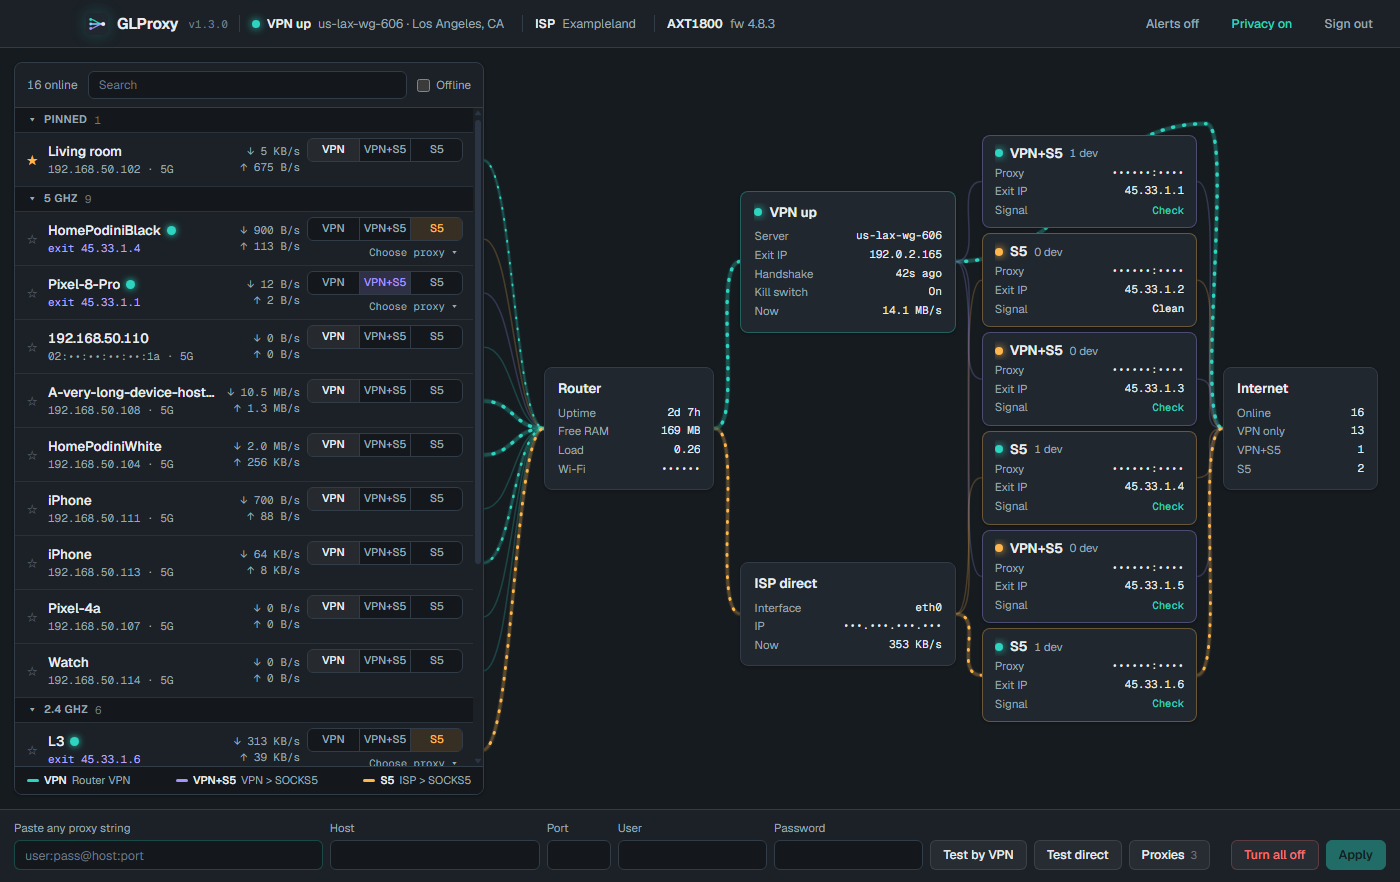
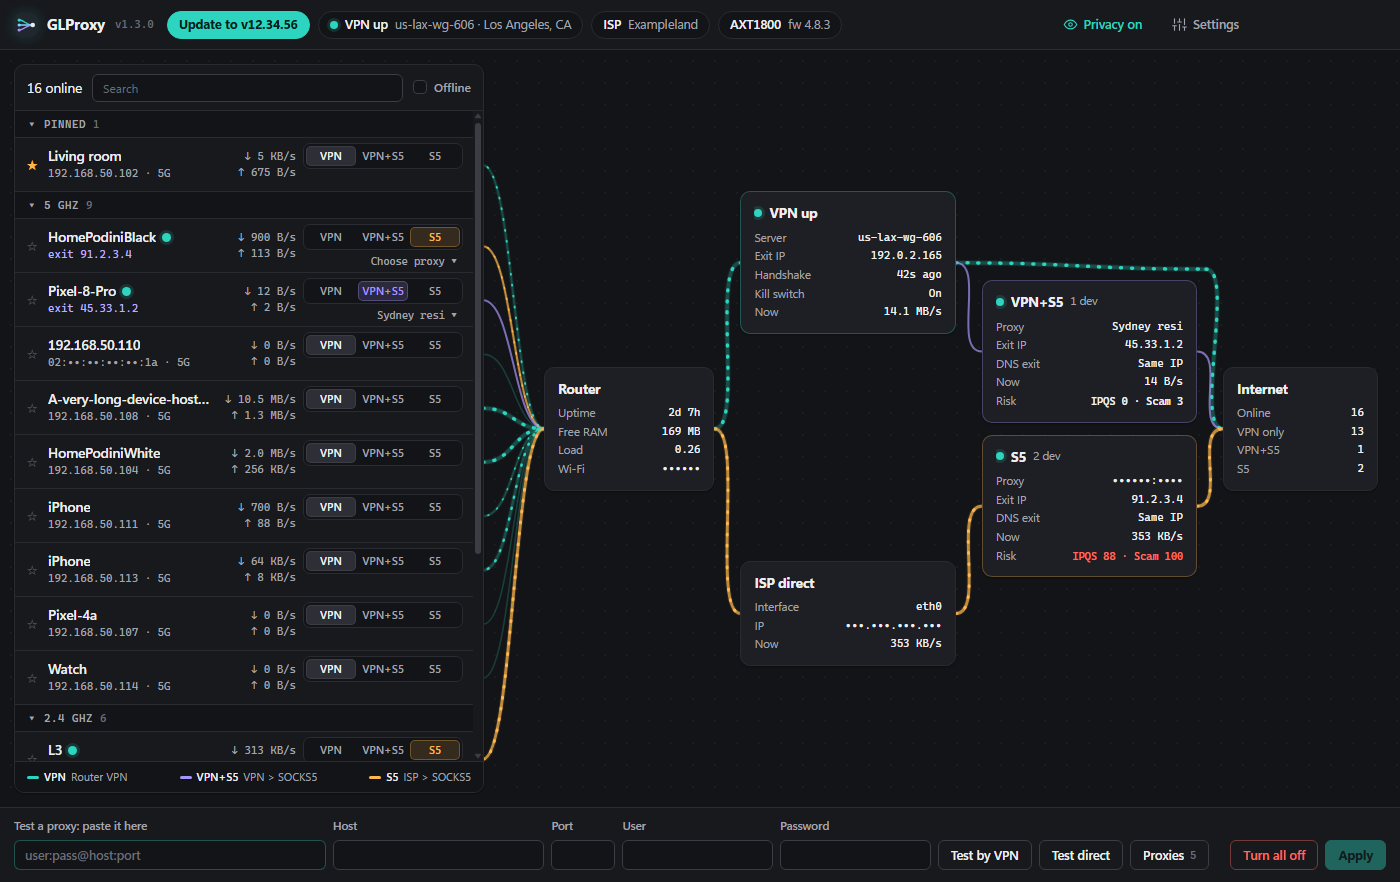
docs: 1.5.2 look, speed test, fraud score columns

diff --git a/README.md b/README.md
@@ -27,6 +27,9 @@ The apps have no paid code signature, so the system warns you the first time.
 - Keep all your proxies in one list. Assign each one to a device from there. Pin the ones you use most.
 - Test a new proxy in the bottom bar. A proxy that works is saved to the list.
 - See each proxy's exit IP, city, latency, and speed through the VPN and through your ISP, with past results.
+- See each exit IP's fraud scores from IPQS, Scamalytics and AbuseIPDB, each in its own column.
+
+![Speed test, with sample data](screenshot-speed.png)
 - Check that a device really leaves through the exit you chose.
 - Hide your own IP, Wi-Fi name, proxy logins, and MAC addresses with Privacy mode. It is on by default.
 - Get a notice for each new version, with what changed and a one-press update on Windows. On a Mac, the update opens this page.
